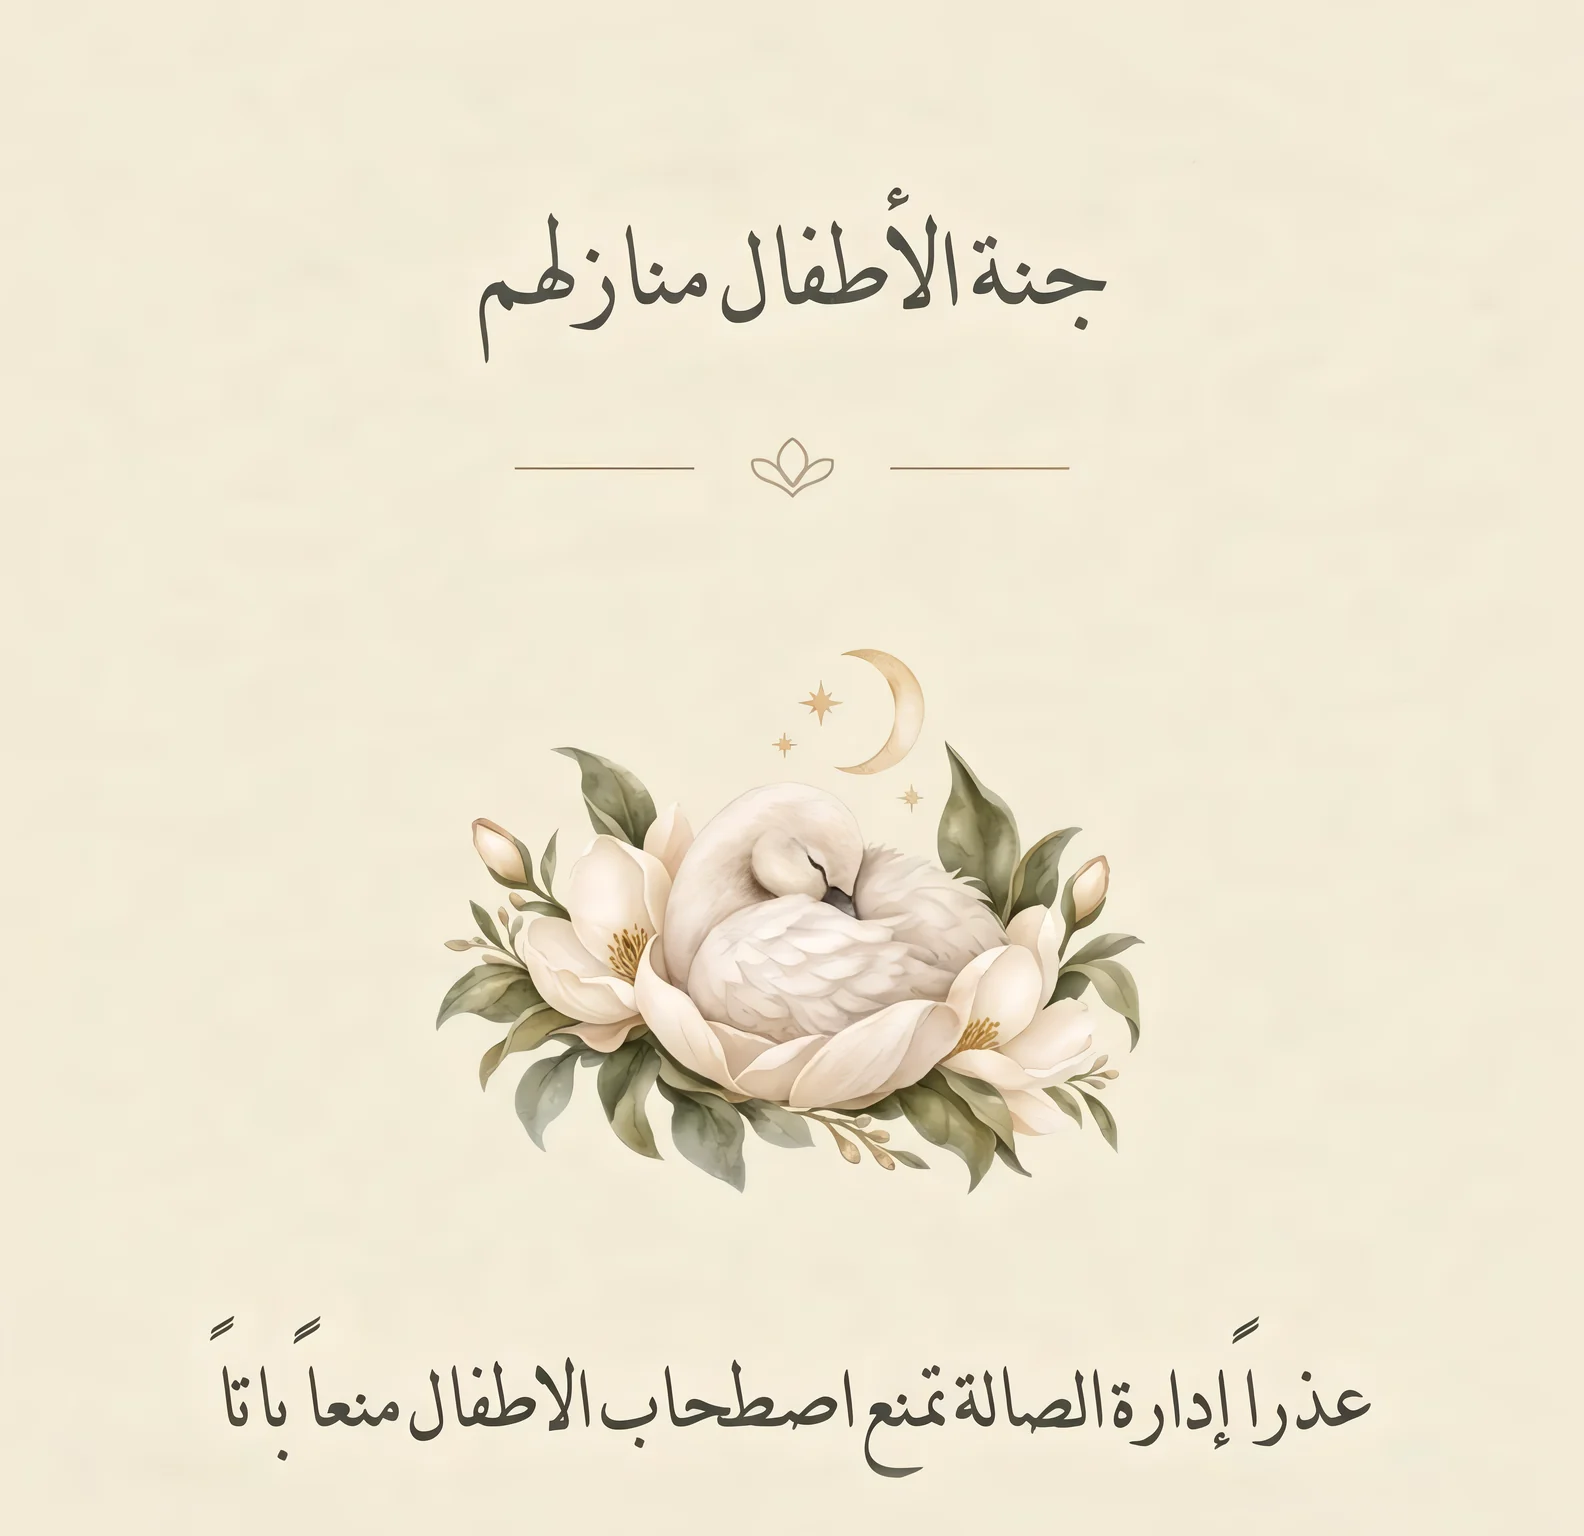
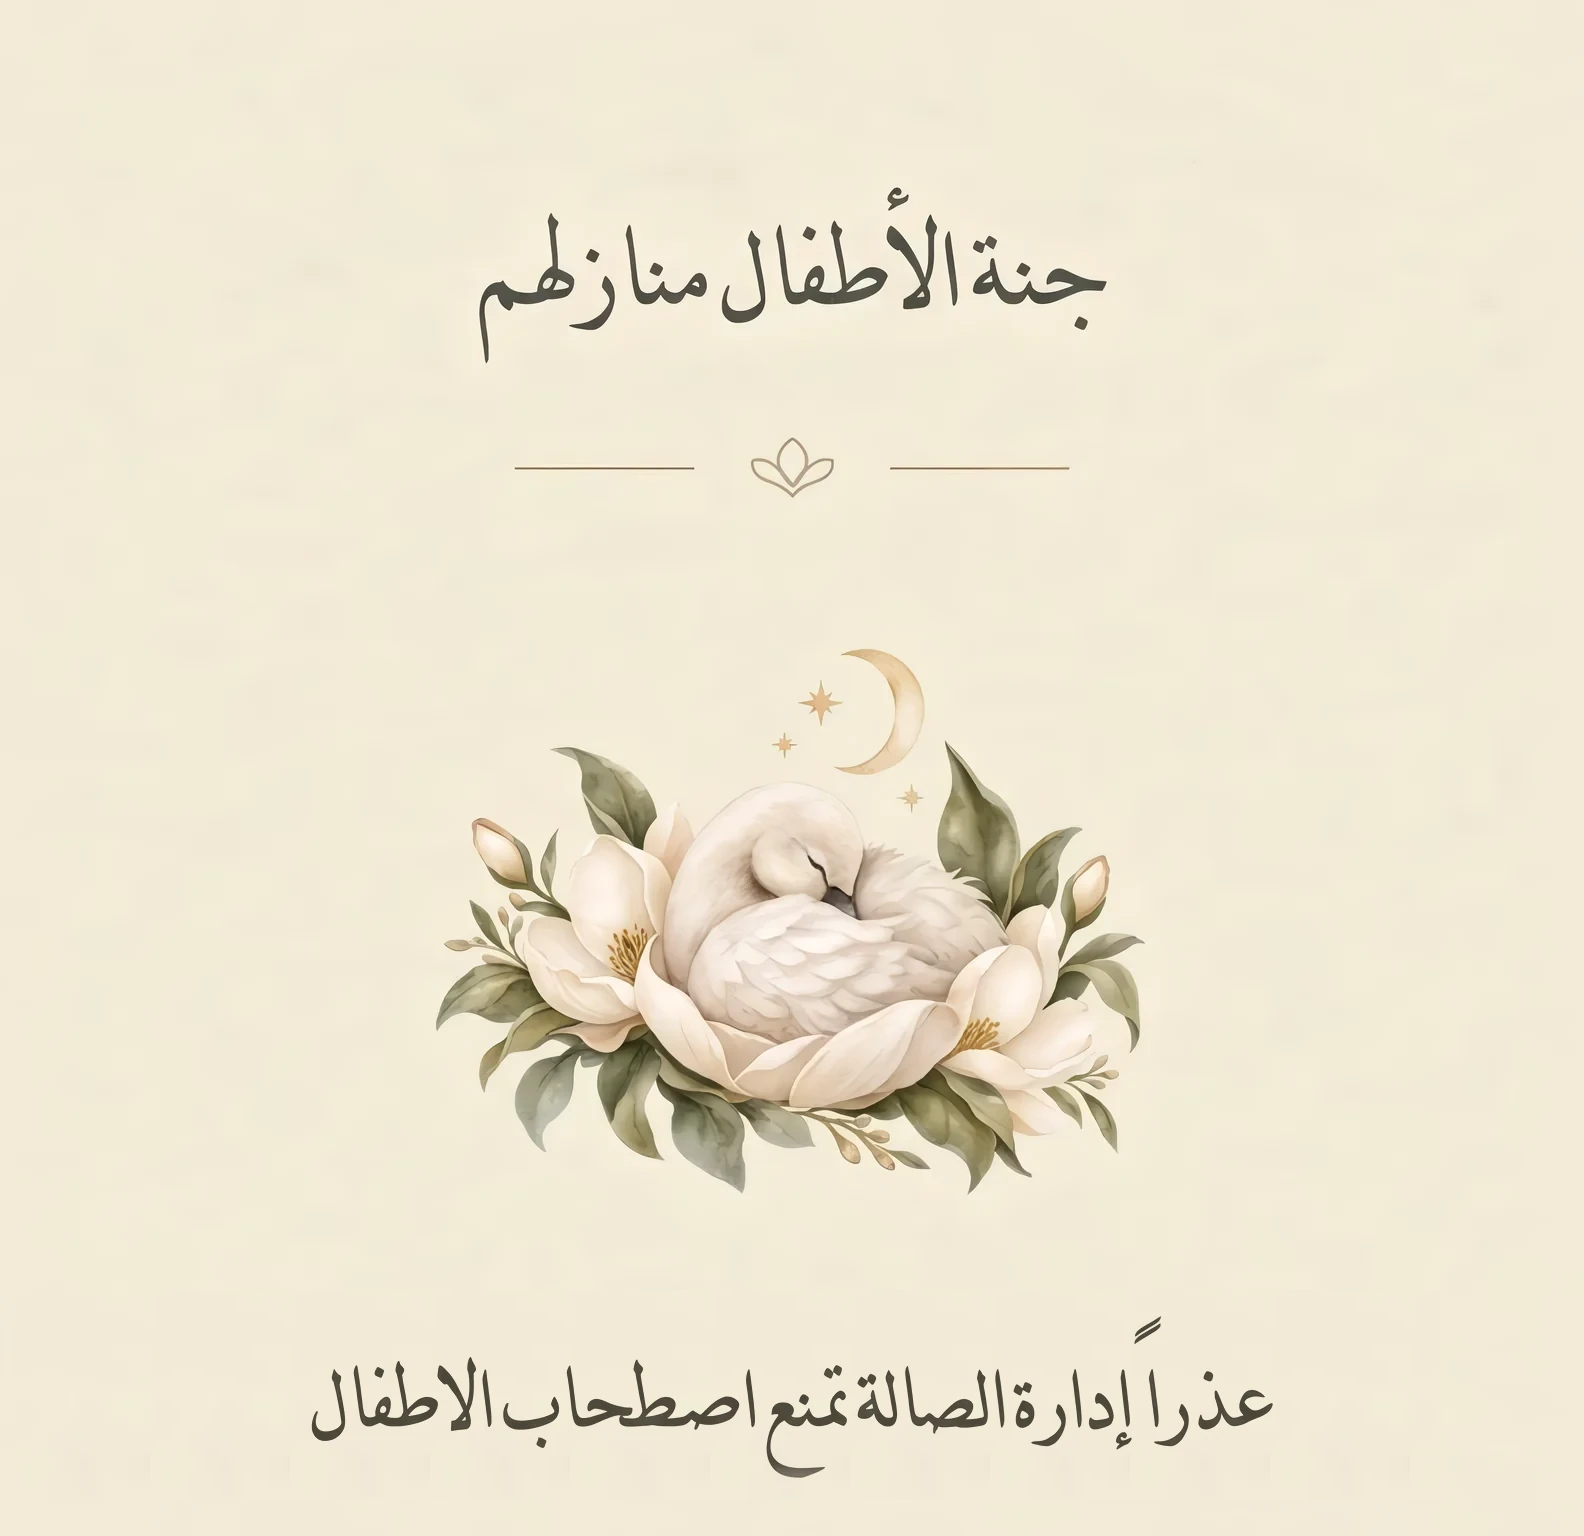
G1L8BxQ بطلب المالك: "أرجوان" في سطر لوحده تحت "بدعوتكم لحضور حفل زفاف ابنتهم" — في النص، بخط "دعوة خاصة" وأكبر وبلون الأسامي (بيتعدّل من المحرر). الخريطة على صالة قلوريا للمناسبات الاجتماعية باسمها (تضمين المالك نفسه، الخريطة العادية بالعربي) و"اعرف الطريق" بيفتح لينكه — الدبوس القديم كان من غير اس
Claude-Session: https://claude.ai/code/session_018uZ4NjKhA5eqzpzPAvL5g5

Changed region(s): [[0.1237, 0.8438, 0.8662, 0.9688], [0.7734, 0.8438, 0.8043, 0.875]]

diff --git a/custom-invitations/G1L8BxQ.js b/custom-invitations/G1L8BxQ.js
@@ -5,11 +5,21 @@
 // - الكارت: الدعوة بس (الموعد والمكان في الصفحة اللي بعدها، من غير إنجليزي).
 // - تحت الخريطة على طول: "جنة الأطفال منازلهم" — صورة المالك زي ما هي.
 // - مفيش تأكيد حضور ولا صور ضيوف (hiddenSections في utils/oneOffFixes.js).
-// البيانات والنصوص نفسها في utils/oneOffFixes.js (G1L8BxQ-orjwan-mohammed).
+// (2026-11-04) بطلب المالك:
+// - "أرجوان" في سطر لوحده تحت "بدعوتكم لحضور حفل زفاف ابنتهم" — أكبر وبنفس خط "دعوة خاصة".
+// - "جنة الأطفال منازلهم": اتشالت "منعاً باتاً" من الصورة (الجملة في النص زي ما كانت).
+// - الأغنية: "مغرم" (نفس أغنية Blossom & Oud) بدل أغنية القالب.
+// - كارت لينك المشاركة: صورة الإيدين ومكتوب فوقها "دعوة خاصة"، والعنوان "دعوة زفاف أرجوان".
+// البيانات والنصوص نفسها في utils/oneOffFixes.js (G1L8BxQ-orjwan-mohammed، G1L8BxQ-bride-own-line،
+// G1L8BxQ-exact-map — الخريطة على صالة قلوريا باسمها).
 const { asset } = require('./_asset');
 
 const SHORT = 'G1L8BxQ';
 const DIR = `/custom/${SHORT}/`;
+
+// أغنية القالب → "مغرم" (Johny Abu Nassar، نفس الملف اللي Blossom & Oud بيشغّله)
+const TEMPLATE_SONG = 'https://pub-4dc8201144ca418fb604349c73e8c724.r2.dev/Forever%20and%20Ever%20and%20Always%20(The%20Wedding%20Song)%20-%20Ryan%20Mack%20(1).mp3';
+const SONG = 'https://pub-4dc8201144ca418fb604349c73e8c724.r2.dev/%D9%85%D8%BA%D8%B1%D9%85%20-%20Moghram%20(Guitar%20Cover)%20_%20Johny%20Abu%20Nassar%20%5Bz_RC48DJbU0%5D%20(1).mp3';
 
 function pageCss() {
   return `<link href="https://fonts.googleapis.com/css2?family=Amiri+Quran&family=Amiri:wght@400;700&display=swap" rel="stylesheet">
@@ -24,6 +34,8 @@ function pageCss() {
 #wg-invite #wg-invite-2 [data-elem-id="lg12"],#wg-invite #wg-invite-2 .end{display:none!important}
 #wg-invite.wg-rtl #wg-invite-2 .body{font-family:'Amiri',serif;font-size:5.3cqw;line-height:1.9;letter-spacing:0;font-weight:700;margin-top:8cqw}
 #wg-invite.wg-rtl #wg-invite-2 .fam{font-family:'Amiri',serif;font-size:5.4cqw;letter-spacing:0;margin-top:4cqw}
+/* "أرجوان" في سطر لوحده تحت "بدعوتكم لحضور حفل زفاف ابنتهم" — أكبر، بخط "دعوة خاصة" ولون الأسامي */
+#wg-invite #wg-invite-2 .g1-bride{display:block;margin:2.2cqw 0 0;font-family:'Aref Ruqaa','Amiri',serif;font-weight:700;font-size:10cqw;line-height:1.35;letter-spacing:0;text-align:center;color:var(--rose,#b9506a)}
 
 /* ===== الآية في ظرف الدانتيل (زي 5eO9JH5) ===== */
 #g1-verse{position:relative;width:100%;container-type:inline-size;overflow:hidden;background:#f6efdd;direction:ltr}
@@ -99,15 +111,20 @@ const VERSE = `<section id="g1-verse" aria-label="آية قرآنية">
 </section>`;
 
 const KIDS = `<section id="g1-kids" aria-label="جنة الأطفال منازلهم">
-  <img src="${asset(`${DIR}kids.webp`)}" alt="جنة الأطفال منازلهم — عذرًا إدارة الصالة تمنع اصطحاب الأطفال منعًا باتًا" width="1584" height="1536" loading="lazy" decoding="async">
+  <img src="${asset(`${DIR}kids.webp`)}" alt="جنة الأطفال منازلهم — عذرًا إدارة الصالة تمنع اصطحاب الأطفال" width="1584" height="1536" loading="lazy" decoding="async">
 </section>`;
 
 module.exports = {
   shortId: SHORT,
 
+  // كارت لينك المشاركة (2026-11-04): صورة الإيدين ومكتوب فوقها "دعوة خاصة" (1200×630)
   share: {
-    title: 'Orjwan & Dr. Mohammed — دعوة زفاف',
-    description: 'الخميس 12/11/2026 · الساعة 7:30 مساءً · قاعة قلوريا',
+    image: asset(`${DIR}share.jpg`),
+    width: 1200,
+    height: 630,
+    overrideImage: true,
+    title: 'دعوة زفاف أرجوان',
+    description: 'We invite you to the wedding party of Orjwan and Dr. Mohammed',
   },
 
   // مفيش غلاف خاص — ظرف القالب زي ما هو؛ التعديلات كلها في transform
@@ -116,6 +133,10 @@ module.exports = {
   transform(html) {
     let out = html;
     out = out.replace('data-elem-id="lg5" src="/templates/lily-garden/hands.webp"', `data-elem-id="lg5" src="${asset(`${DIR}hands.webp`)}"`);
+    // "أرجوان" سطر لوحده بعد "بدعوتكم لحضور حفل زفاف ابنتهم" (lg41) — بيتعدّل من المحرر (g1b)
+    out = out.replace(/<p[^>]*data-elem-id="lg41"[^>]*>[\s\S]*?<\/p>/, (m) => `${m}\n                            <p class="g1-bride" data-elem-id="g1b">أرجوان</p>`);
+    // الأغنية: "مغرم" — ولو العميل رفع أغنية من المحرر، بتاعته هي اللي بتشتغل زي أي دعوة
+    out = out.split(TEMPLATE_SONG).join(SONG);
     out = out.replace('<!-- ===== الصفحة 2 ===== -->', () => `${VERSE}\n                <!-- ===== الصفحة 2 ===== -->`);
     out = out.replace('<!-- ===== تأكيد الحضور ===== -->', () => `${KIDS}\n                <!-- ===== تأكيد الحضور ===== -->`);
     out = out.replace(/<\/head>/i, () => `${pageCss()}</head>`);

diff --git a/utils/oneOffFixes.js b/utils/oneOffFixes.js
@@ -816,6 +816,30 @@ const FIXES = [
     when: (c, inv) => !((c.share || {}).title) && new Date(inv.updatedAt || 0) < new Date('2026-11-04T03:00:00Z'),
     apply: (c) => ({ 'customizations.share': { ...(c.share || {}), title: 'دعوة حفل زفاف عبدالشافي الغامدي' } }),
   },
+  {
+    // G1L8BxQ — المالك (2026-11-04): "أرجوان" في سطر لوحده وبخط أكبر تحت "بدعوتكم لحضور حفل
+    // زفاف ابنتهم" — السطر نفسه (g1b) بيتحط في custom-invitations/G1L8BxQ.js، وهنا بنشيل الاسم
+    // من آخر السطر اللي فوقه. بيتعمل بس لو السطر لسه زي ما احنا كاتبينه بالظبط.
+    name: 'G1L8BxQ-bride-own-line',
+    shortId: 'G1L8BxQ',
+    when: (c) => (c.texts || {}).lg41 === 'بدعوتكم لحضور حفل زفاف ابنتهم أرجوان',
+    apply: (c) => ({ 'customizations.texts': { ...(c.texts || {}), lg41: 'بدعوتكم لحضور حفل زفاف ابنتهم' } }),
+  },
+  {
+    // G1L8BxQ — المالك بعت لوكيشن صالة قلوريا للمناسبات الاجتماعية (2026-11-04). الدبوس القديم كان
+    // على نفس الإحداثيات بس من غير اسم الصالة، والاسم الوحيد اللي باين جنبه "قاعة فيدا". دلوقتي
+    // الخريطة هي تضمين المالك نفسه (المكان باسمه، الخريطة العادية مش القمر الصناعي، وبالعربي)،
+    // و"اعرف الطريق" بيفتح لينكه. بيتعمل بس لو الخريطة لسه على اللينك القديم.
+    name: 'G1L8BxQ-exact-map',
+    shortId: 'G1L8BxQ',
+    select: 'venueMapQuery venueMapEmbedSrc venueMapDirectLink',
+    when: (c, inv) => inv.venueMapDirectLink === 'https://maps.app.goo.gl/mx3Gfuy2yGDNfJz46',
+    apply: () => ({
+      venueMapQuery: 'https://maps.app.goo.gl/f5UXnL5iVY1Rf7xj9',
+      venueMapDirectLink: 'https://maps.app.goo.gl/f5UXnL5iVY1Rf7xj9',
+      venueMapEmbedSrc: 'https://www.google.com/maps/embed?pb=!1m14!1m8!1m3!1d2062.5418673648164!2d13.2370507!3d32.8333614!3m2!1i1024!2i768!4f13.1!3m3!1m2!1s0x13a893001038270b%3A0x153337343bc6a4ee!2z2LXYp9mE2Kkg2YLZhNmI2LHZitinINmE2YTZhdmG2KfYs9io2KfYqiDYp9mE2KfYrNiq2YXYp9i52YrYqQ!5e0!3m2!1sar!2sly!4v1793754680147!5m2!1sar!2sly',
+    }),
+  },
 ];
 
 let done = false;
